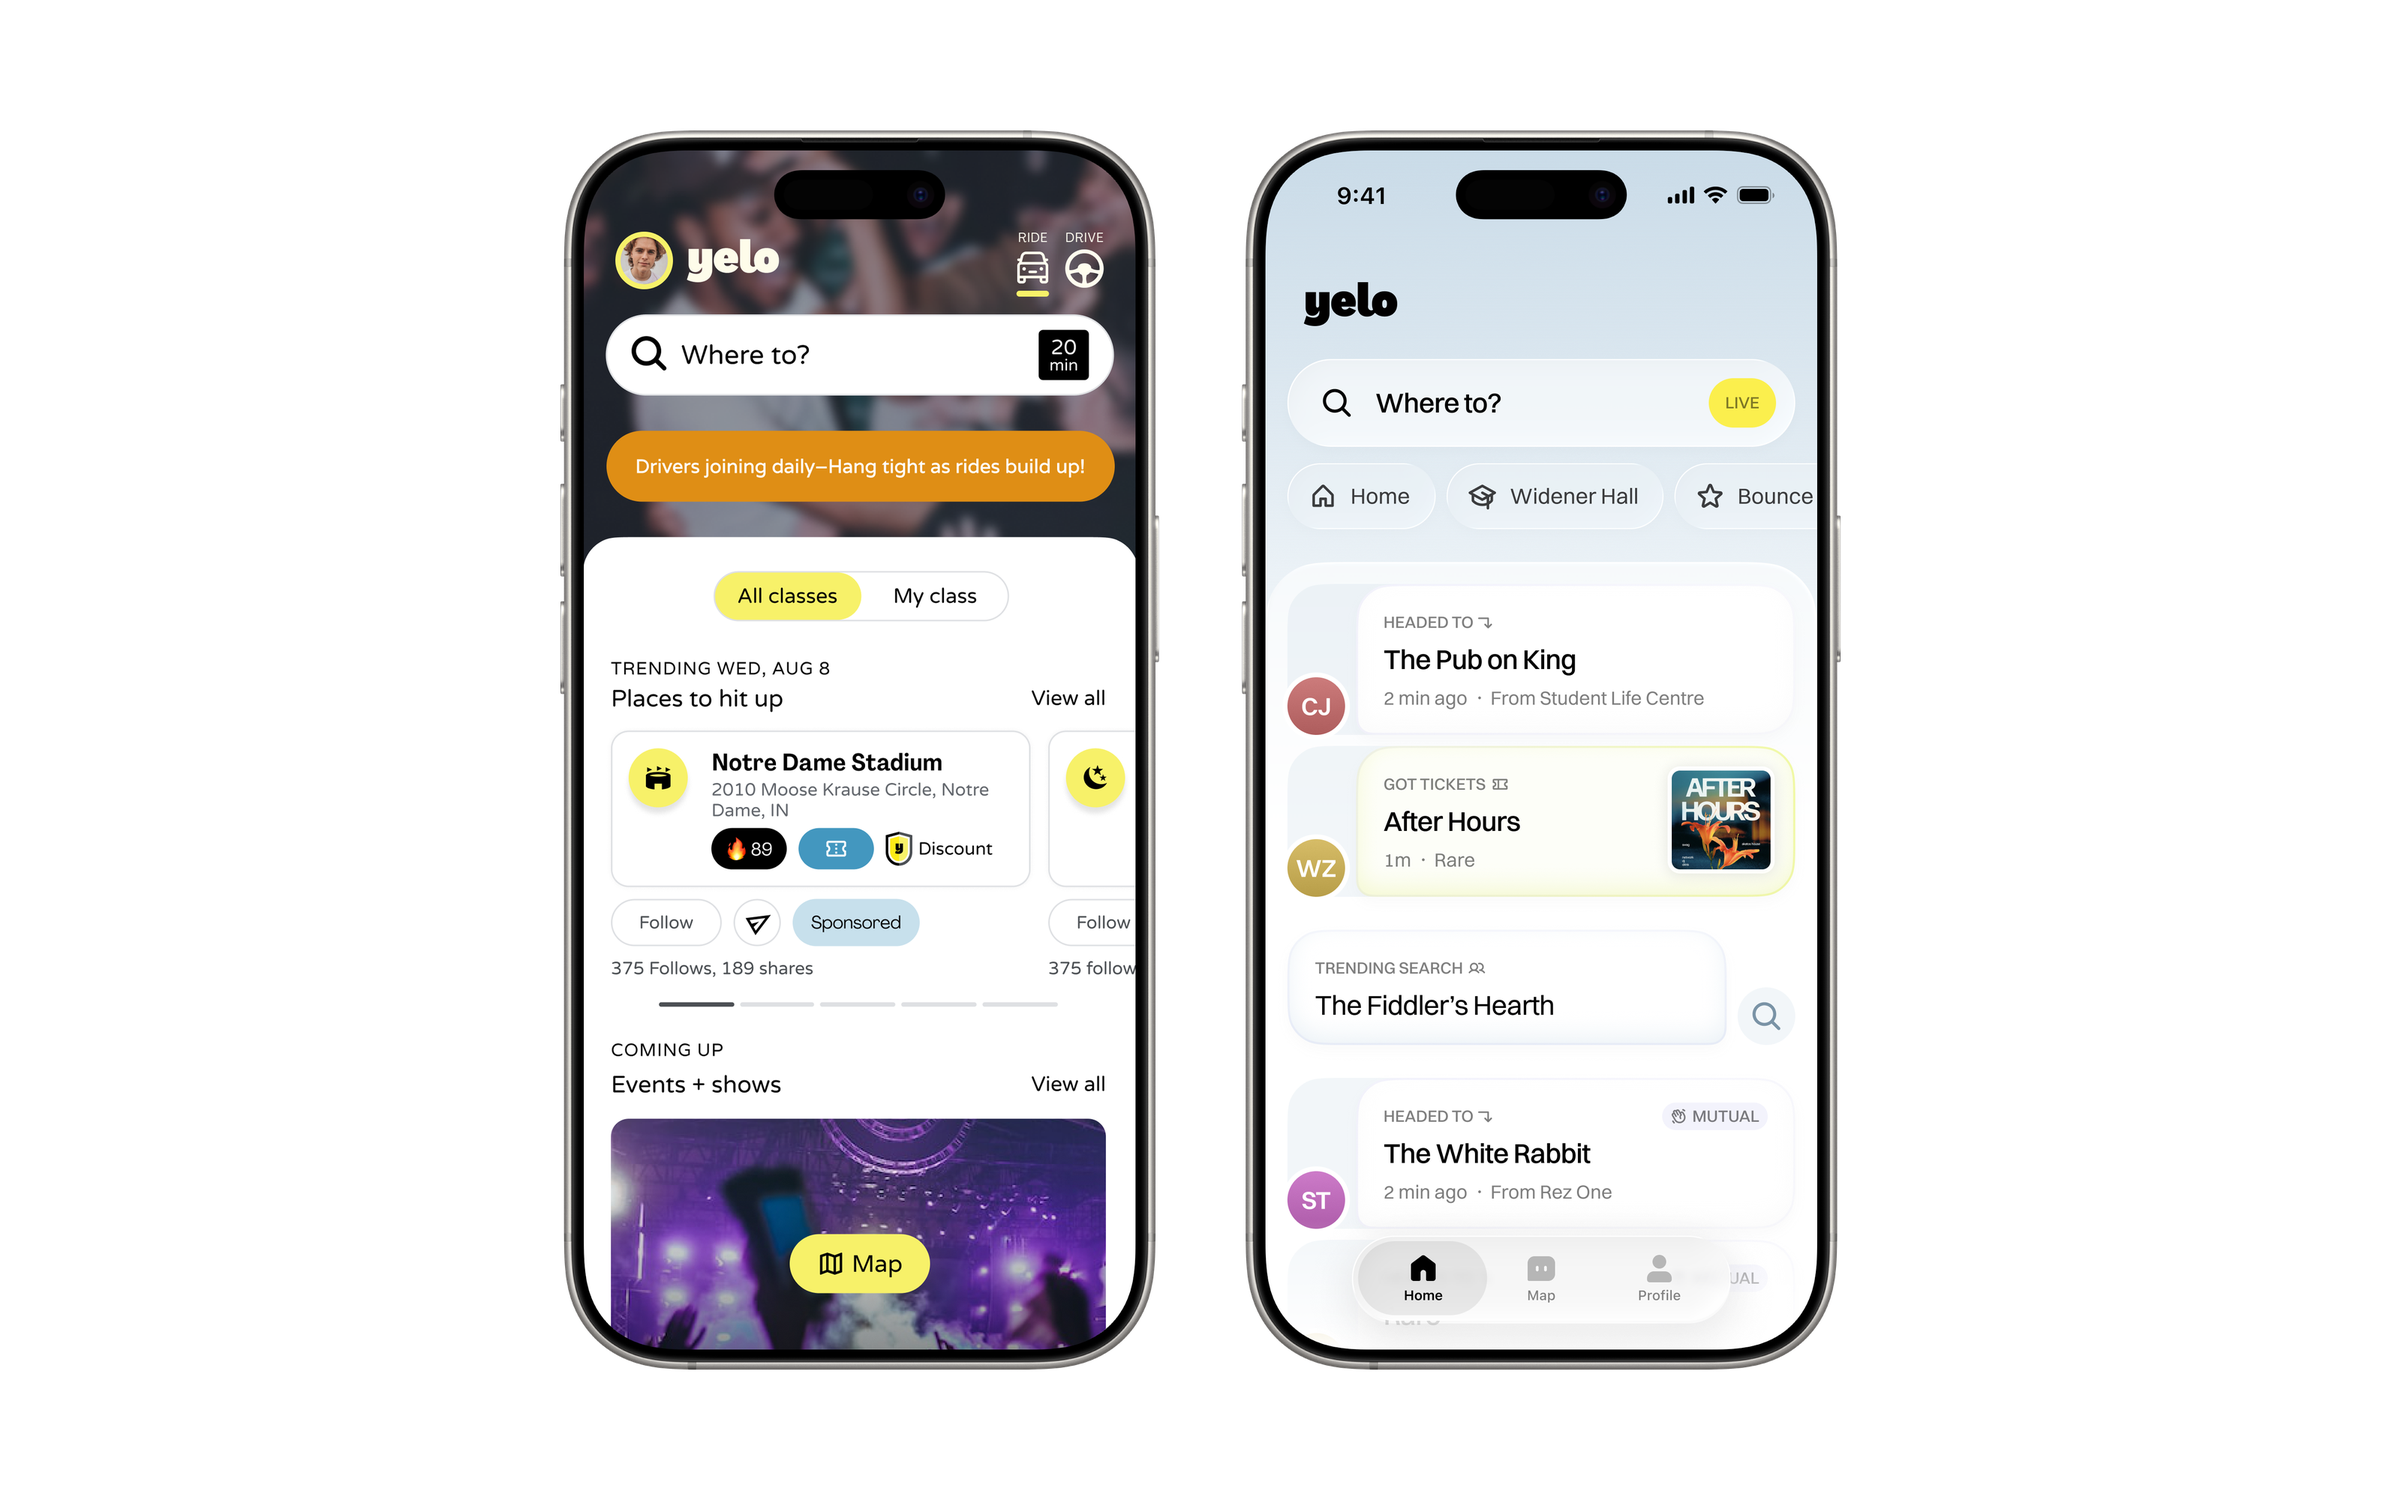
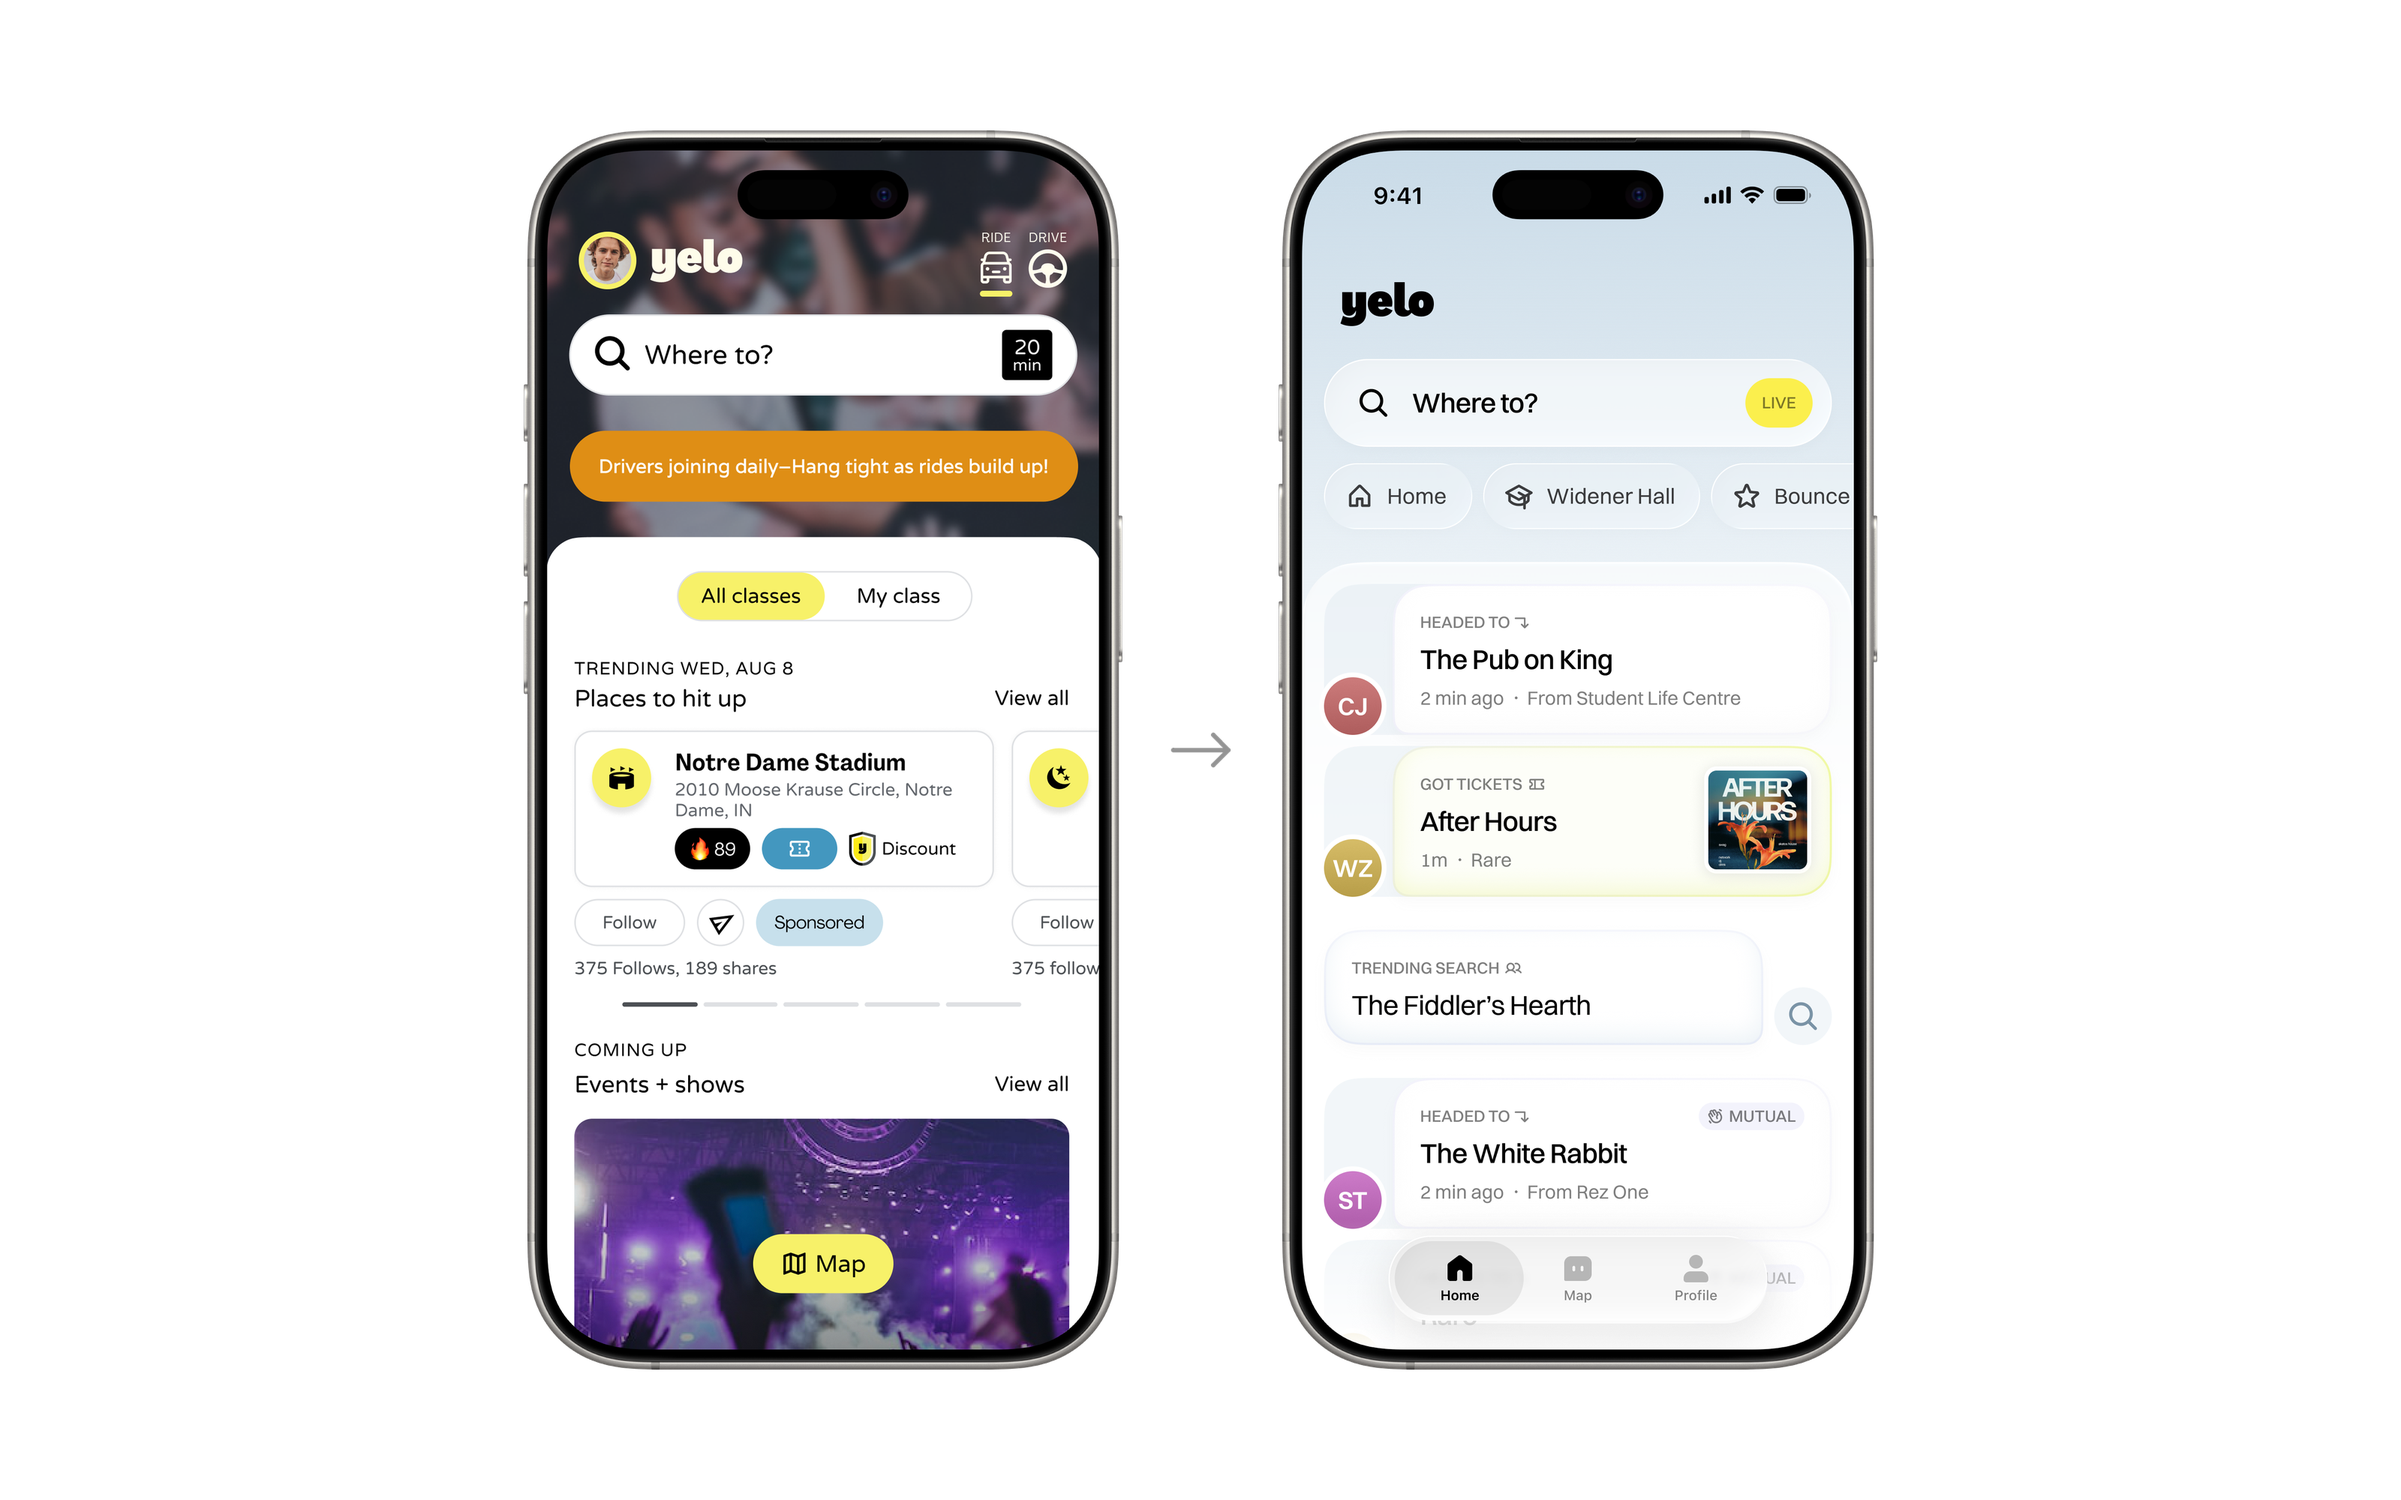
Arrows between images that show a sequence
- Grey arrows drawn into the phone images that show versions, before and
  after, or the steps of a flow: Yelo before/after, feed card versions,
  ride sheet versions and both sign-up rows; CoStudy joining and sign-up.
- Black arrows between the frames of Yelo's 30+ iterations grid, matching
  its selection outlines; arrows between Newly's simulator picker versions.
- New "Arrows between images" option on image rows (Studio, types, build
  script), used for Newly's board → board with prompt bar → chat-first and
  two panes → one sidebar. Three-image rows stack on phones with the
  arrows pointing down.

Claude-Session: https://claude.ai/code/session_012Aqm2Ae1Wv3cxe2ZydtXkT

Changed region(s): [[0.2188, 0.062, 0.7812, 0.93]]

diff --git a/src/components/project/Media.tsx b/src/components/project/Media.tsx
@@ -3,6 +3,7 @@
 // A client module on purpose: images rendered by a server component are sent
 // as preload hints in the page's RSC payload, so prefetching a project link on
 // the home page would start downloading its full-size hero.
+import { Fragment } from 'react';
 import { imageUrl, imageAspect, type ImageSource } from '@/lib/image';
 import AutoplayVideo from './AutoplayVideo';
 import Lightbox from './Lightbox';
@@ -106,22 +107,71 @@ const GALLERY_COLUMNS: Record<number, string> = {
   3: 'grid-cols-1 sm:grid-cols-3',
 };
 
-export function GalleryFigure({ images, caption }: { images: ImageSource[]; caption?: string }) {
+// A small arrow between images in a sequence. The same grey and size as
+// the arrows drawn into the composite images, so they match: it reads on
+// the white and the near-black page.
+function SequenceArrow({ vertical = false }: { vertical?: boolean }) {
+  return (
+    <svg
+      aria-hidden="true"
+      viewBox="0 0 24 12"
+      fill="none"
+      className={`h-3 w-6 shrink-0 ${vertical ? 'rotate-90 sm:rotate-0' : ''}`}
+    >
+      <path
+        d="M2 6H22M16.5 0.5L22 6L16.5 11.5"
+        stroke="#949494"
+        strokeWidth="1.6"
+        strokeLinecap="round"
+        strokeLinejoin="round"
+      />
+    </svg>
+  );
+}
+
+export function GalleryFigure({
+  images,
+  caption,
+  arrows = false,
+}: {
+  images: ImageSource[];
+  caption?: string;
+  arrows?: boolean;
+}) {
   const shown = images.filter((img) => img.asset?.url);
   if (shown.length === 0) return null;
   // Every image in the row shares the first image's proportions so the row
   // lines up.
   const aspect = imageAspect(shown[0]);
+  const sizes = `(min-width: 768px) ${Math.round(100 / shown.length)}vw, 100vw`;
+  if (arrows && shown.length > 1) {
+    // Three images stack on phones like the plain gallery, with the arrows
+    // turned to point down.
+    const stack = shown.length > 2;
+    return (
+      <figure className="w-full">
+        <div className={`flex items-center gap-2 md:gap-3 ${stack ? 'flex-col sm:flex-row' : 'flex-row'}`}>
+          {shown.map((image, i) => (
+            <Fragment key={i}>
+              {i > 0 && <SequenceArrow vertical={stack} />}
+              <div className={`min-w-0 ${stack ? 'w-full sm:w-auto sm:flex-1' : 'flex-1'}`}>
+                <Lightbox image={image}>
+                  <ResponsiveImage image={image} aspect={aspect} sizes={sizes} />
+                </Lightbox>
+              </div>
+            </Fragment>
+          ))}
+        </div>
+        <Caption>{caption}</Caption>
+      </figure>
+    );
+  }
   return (
     <figure className="w-full">
       <div className={`grid gap-4 ${GALLERY_COLUMNS[shown.length] ?? 'grid-cols-2'}`}>
         {shown.map((image, i) => (
           <Lightbox key={i} image={image}>
-            <ResponsiveImage
-              image={image}
-              aspect={aspect}
-              sizes={`(min-width: 768px) ${Math.round(100 / shown.length)}vw, 100vw`}
-            />
+            <ResponsiveImage image={image} aspect={aspect} sizes={sizes} />
           </Lightbox>
         ))}
       </div>

diff --git a/src/components/project/ProjectSections.tsx b/src/components/project/ProjectSections.tsx
@@ -142,7 +142,7 @@ export default function ProjectSections({ sections, showSideMenu }: ProjectSecti
                     )}
                     {c.block._type === 'mediaVideo' && <VideoFigure video={c.block} />}
                     {c.block._type === 'mediaGallery' && (
-                      <GalleryFigure images={c.block.images ?? []} caption={c.block.caption} />
+                      <GalleryFigure images={c.block.images ?? []} caption={c.block.caption} arrows={c.block.arrows} />
                     )}
                     {c.block._type === 'stickyBoard' && <StickyBoard board={c.block} />}
                   </div>

diff --git a/studio/schemaTypes/objects/mediaGallery.ts b/studio/schemaTypes/objects/mediaGallery.ts
@@ -23,6 +23,13 @@ export default defineType({
       validation: (Rule) => Rule.min(2).max(3),
     }),
     defineField({
+      name: 'arrows',
+      title: 'Arrows between images',
+      type: 'boolean',
+      description: 'Show small arrows between the images, for a sequence such as before and after, or versions in order.',
+      initialValue: false,
+    }),
+    defineField({
       name: 'caption',
       title: 'Caption (optional)',
       type: 'string',

diff --git a/src/lib/projects.ts b/src/lib/projects.ts
@@ -44,6 +44,8 @@ export interface MediaGallery {
   _key: string;
   images?: SanityImage[];
   caption?: string;
+  // Arrows between the images, for a sequence (before/after, versions).
+  arrows?: boolean;
 }
 
 export interface TextBlock {
